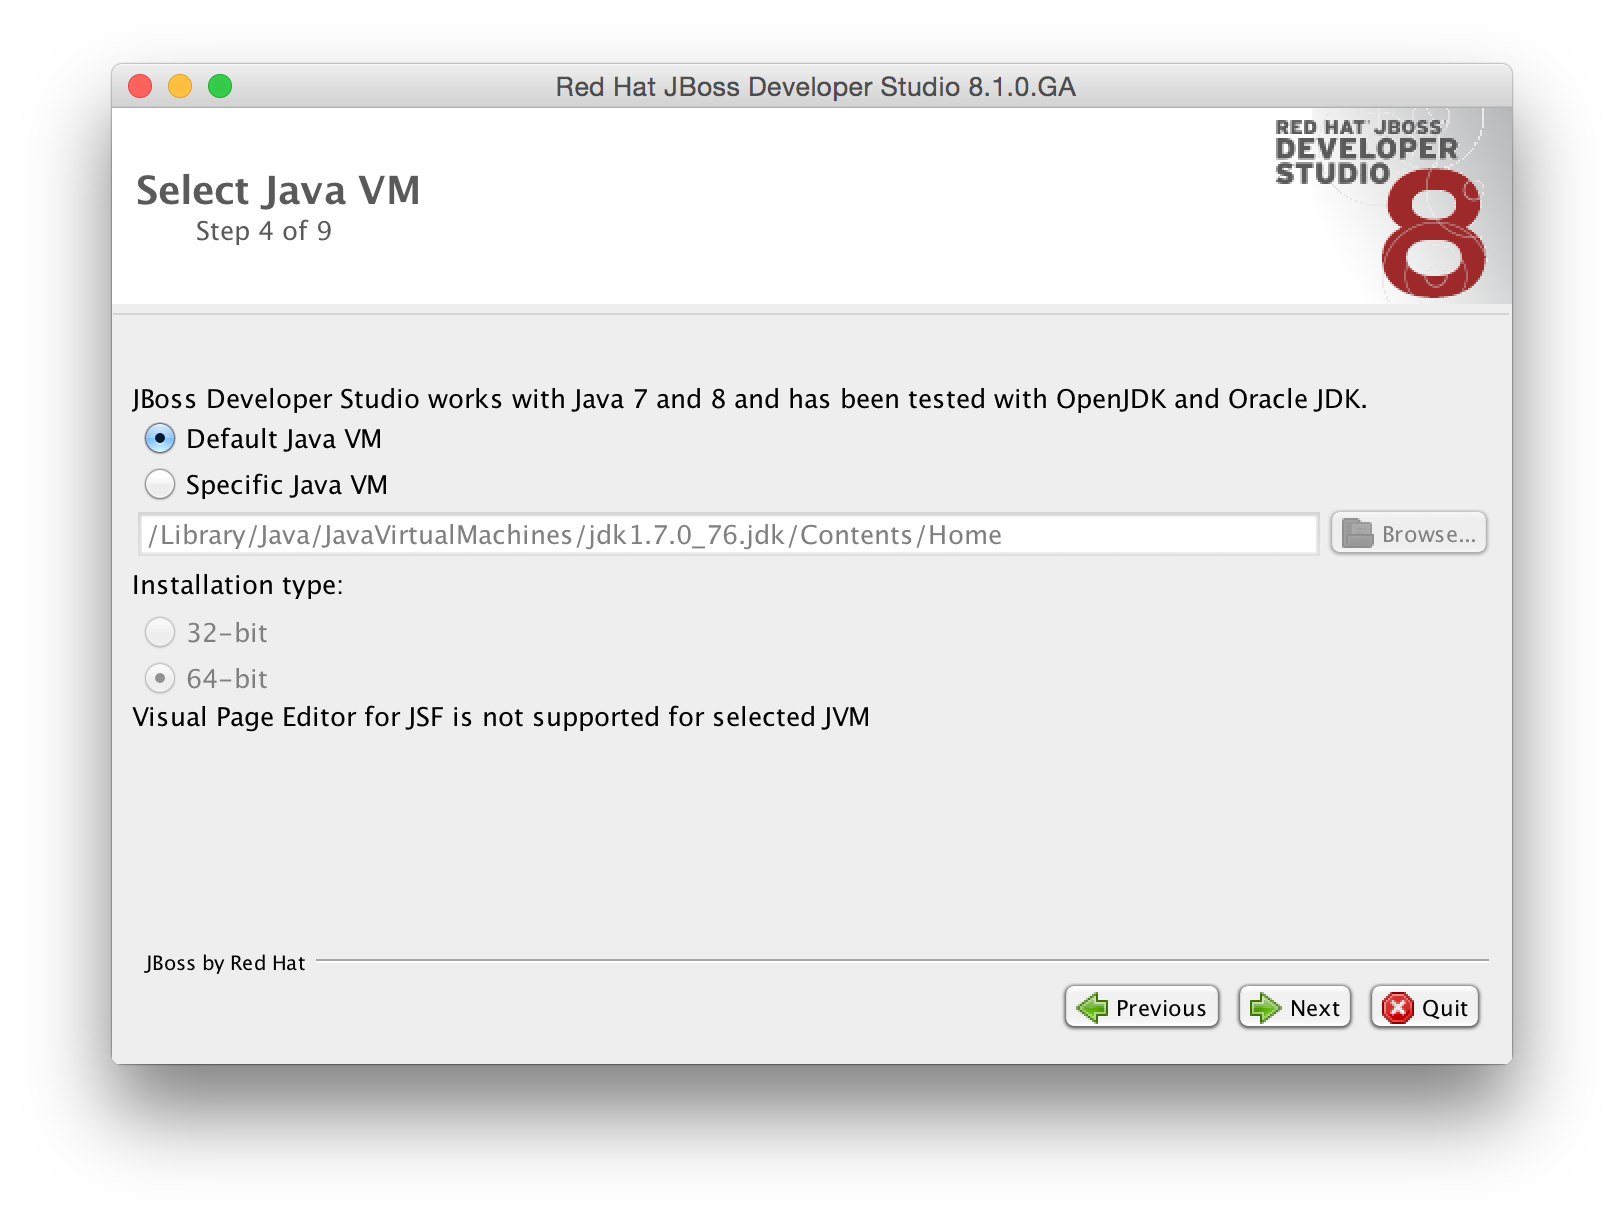
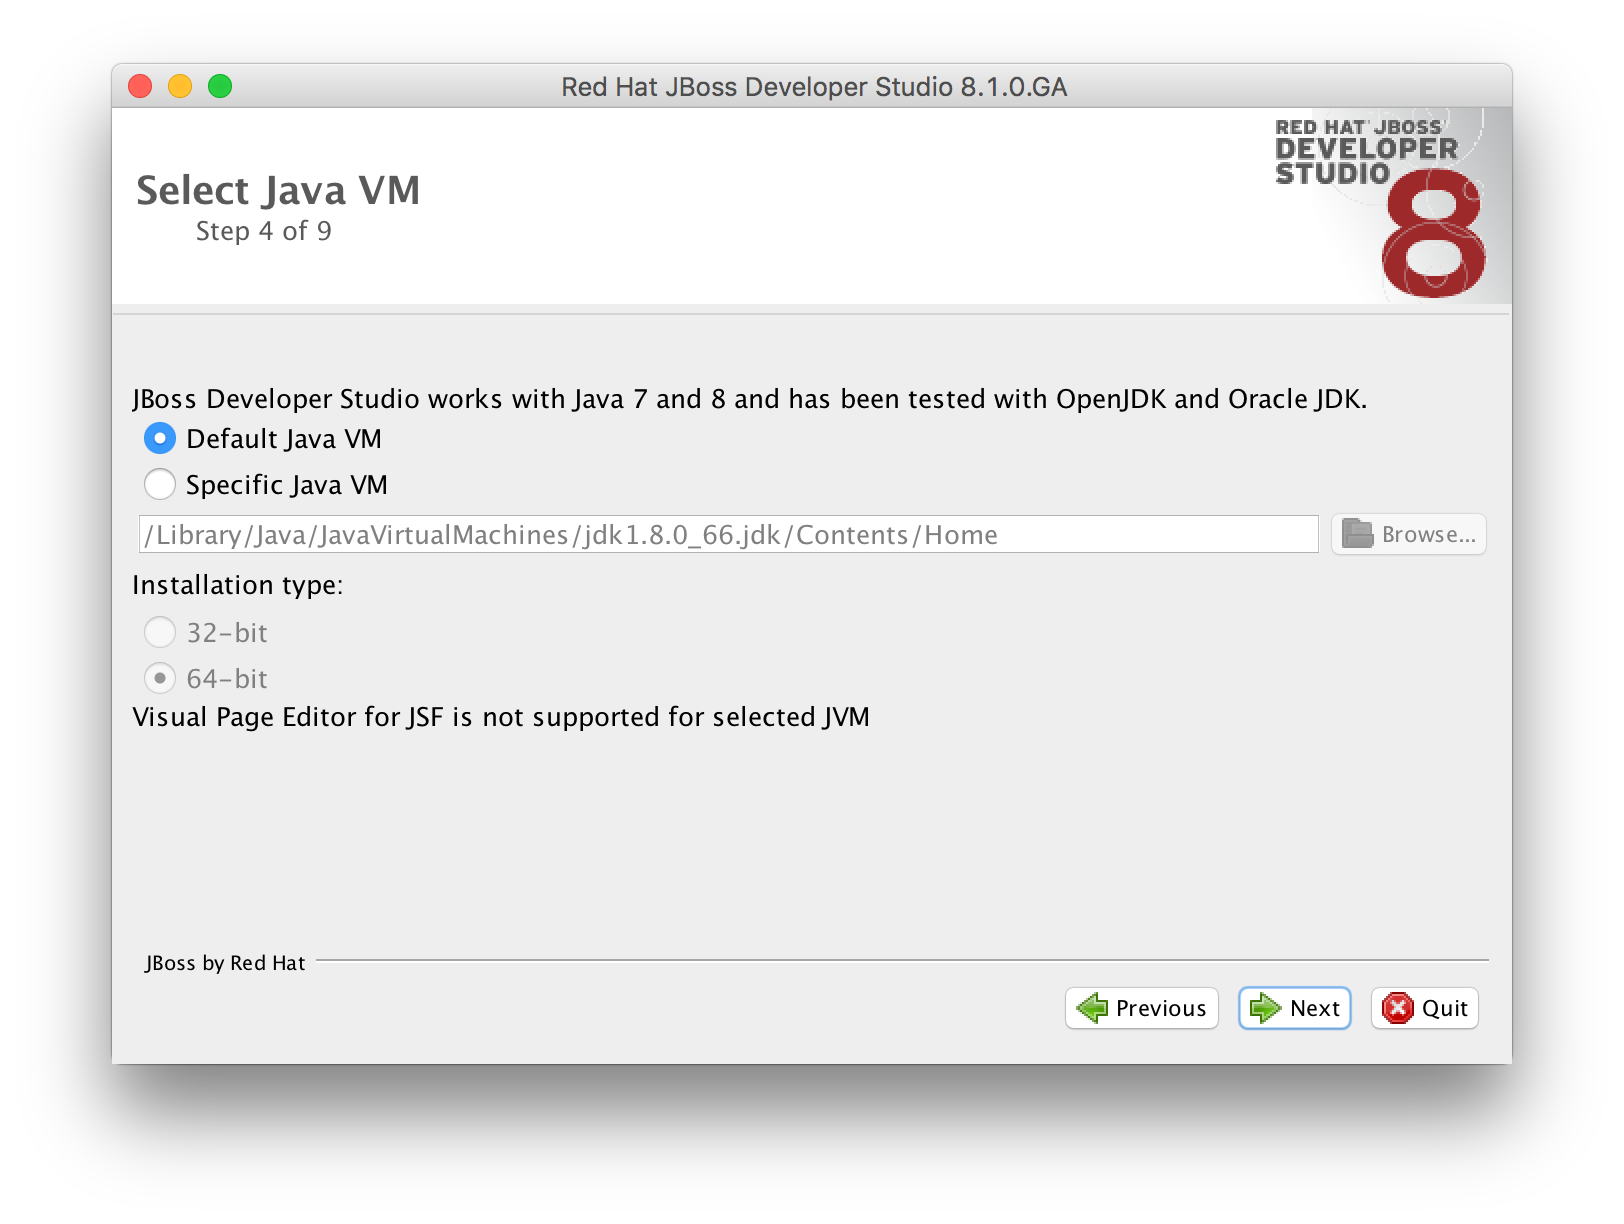
Screenshots updated to 6.2

diff --git a/docs/jboss-dv-workshop.html b/docs/jboss-dv-workshop.html
@@ -522,9 +522,9 @@ table.CodeRay td.code>pre{padding:0}
 <li><a href="#_prerequisites">3.2. Prerequisites</a></li>
 <li><a href="#_setup_demo_environment">3.3. Setup demo environment</a>
 <ul class="sectlevel3">
-<li><a href="#_setup_postgresql">3.3.1. Setup PostgreSQL</a></li>
-<li><a href="#_setup_mariadb">3.3.2. Setup MariaDB</a></li>
-<li><a href="#_setup_mysql">3.3.3. Setup MySQL</a></li>
+<li><a href="#_setup_postgresql_optional">3.3.1. Setup PostgreSQL (Optional)</a></li>
+<li><a href="#_setup_mariadb_optional">3.3.2. Setup MariaDB (Optional)</a></li>
+<li><a href="#_setup_mysql_optional">3.3.3. Setup MySQL (Optional)</a></li>
 </ul>
 </li>
 </ul>
@@ -676,7 +676,7 @@ table.CodeRay td.code>pre{padding:0}
 <p>JBoss Developer Studio 8.1.0.GA</p>
 </li>
 <li>
-<p>JBoss Developer Studio Integration Stack 8.0.1.GA</p>
+<p>JBoss Developer Studio Integration Stack 8.0.3.GA</p>
 </li>
 <li>
 <p>OpenShift Online v2</p>
@@ -859,11 +859,23 @@ table.CodeRay td.code>pre{padding:0}
 </li>
 </ul>
 </div>
+<div class="admonitionblock note">
+<table>
+<tr>
+<td class="icon">
+<div class="title">Note</div>
+</td>
+<td class="content">
+Prerequisites with respect to PostgreSQL server, MariaDB server or MySQL server are optional. We will use the embedded H2 database which is installed in the JBoss DV environment by default as part of JBoss EAP for you convenience.
+</td>
+</tr>
+</table>
+</div>
 </div>
 <div class="sect2">
 <h3 id="_setup_demo_environment">3.3. Setup demo environment</h3>
 <div class="paragraph">
-<p>In order to use the labs we need to prepare one database. We provided some database SQL scripts for PostgreSQL, MariaDB and MySQL to load initial data into the database. In the next paragraph we will describe how to install the database and how to load the demo data into the database.</p>
+<p>In order to use the labs we need to prepare one database. Out of the box we provide H2 embedded databases for your convinience. We provide some database SQL scripts as well for PostgreSQL, MariaDB and MySQL to load initial data into the database of your choice. In the next paragraph we will describe how to install the database and how to load the demo data into the database.</p>
 </div>
 <div class="admonitionblock tip">
 <table>
@@ -872,13 +884,13 @@ table.CodeRay td.code>pre{padding:0}
 <div class="title">Tip</div>
 </td>
 <td class="content">
-Use the database you prefer, it&#8217;s not required to have them all installed.
+Use the database you prefer, it&#8217;s not required to install one of the databases. By default we will use the H2 embedded database.
 </td>
 </tr>
 </table>
 </div>
 <div class="sect3">
-<h4 id="_setup_postgresql">3.3.1. Setup PostgreSQL</h4>
+<h4 id="_setup_postgresql_optional">3.3.1. Setup PostgreSQL (Optional)</h4>
 <div class="paragraph">
 <p>Installation</p>
 </div>
@@ -945,7 +957,7 @@ postgres=# \q</pre>
 </div>
 </div>
 <div class="sect3">
-<h4 id="_setup_mariadb">3.3.2. Setup MariaDB</h4>
+<h4 id="_setup_mariadb_optional">3.3.2. Setup MariaDB (Optional)</h4>
 <div class="paragraph">
 <p>Installation</p>
 </div>
@@ -1013,7 +1025,7 @@ Bye</pre>
 </div>
 </div>
 <div class="sect3">
-<h4 id="_setup_mysql">3.3.3. Setup MySQL</h4>
+<h4 id="_setup_mysql_optional">3.3.3. Setup MySQL (Optional)</h4>
 <div class="paragraph">
 <p>Installation</p>
 </div>
@@ -1162,6 +1174,18 @@ You are disconnected at the moment. Type 'connect' to connect to the server or '
 [disconnected /]</code></pre>
 </div>
 </div>
+<div class="admonitionblock note">
+<table>
+<tr>
+<td class="icon">
+<div class="title">Note</div>
+</td>
+<td class="content">
+Skip apply patch 3 step when you have downloaded the software from <a href="http://jboss.org">jboss.org</a>.
+</td>
+</tr>
+</table>
+</div>
 <div class="paragraph">
 <p>Apply patch 3 to previously installed JBoss EAP 6.4.0 environment</p>
 </div>
@@ -1181,7 +1205,7 @@ Run the installer using java at the command prompt:</p>
 </div>
 <div class="listingblock">
 <div class="content">
-<pre class="CodeRay highlight"><code data-lang="bash">$ java -jar jboss-dv-installer-{version}.jar</code></pre>
+<pre class="CodeRay highlight"><code data-lang="bash">$ java -jar jboss-dv-installer-6.2.0.redhat-2.jar</code></pre>
 </div>
 </div>
 <div class="paragraph">
@@ -1511,7 +1535,7 @@ The following screen should appear.</p>
 <div class="paragraph">
 <p>If you don&#8217;t already have Red Hat JBoss Developer Studio 8.1.0, download it from <a href="https://www.jboss.org/products/jbds.html">https://www.jboss.org/products/jbds.html</a> by clicking the green download button.
 You can use either the installer which includes JBoss EAP (jboss-devstudio-8.1.0.GA-installer-eap.jar) or the stand-alone installer (jboss-devstudio-8.1.0.GA-installer-standalone.jar).
-The instructions below is using the stand-alone installer.</p>
+The instructions below is using the installer with EAP.</p>
 </div>
 <div class="imageblock">
 <div class="content">
@@ -1524,7 +1548,7 @@ The current available version is 8.1.0.GA, and to run the installer at the comma
 </div>
 <div class="listingblock">
 <div class="content">
-<pre class="CodeRay highlight"><code data-lang="bash">$ java -jar jboss-devstudio-8.1.0.GA-installer-standalone.jar</code></pre>
+<pre class="CodeRay highlight"><code data-lang="bash">$ java -jar jboss-devstudio-8.1.0.GA-installer-eap.jar</code></pre>
 </div>
 </div>
 <div class="paragraph">
@@ -1576,7 +1600,7 @@ The current available version is 8.1.0.GA, and to run the installer at the comma
 </div>
 </div>
 <div class="paragraph">
-<p>In the Select Platforms and Servers step one can add server to make use of automatic runtime detection for finding already installed application servers. Skip this for now since we will add servers later. Click <b class="button">Next</b> to proceed.</p>
+<p>In the Select Platforms and Servers step one can install Red Hat JBoss Enterprise Application Server which is included and add server to make use of automatic runtime detection for finding already installed application servers. Select No and skip the option for adding locations for now since we will add servers later. Click <b class="button">Next</b> to proceed.</p>
 </div>
 <div class="imageblock">
 <div class="content">
@@ -1710,13 +1734,20 @@ Please upgrade to the latest patch version of JBoss Developer Studio 8.1.0 by cl
 </div>
 <div class="paragraph">
 <p>With the New Server wizard enabled, be sure you entries look like those above. Select JBoss Enterprise
-Middleware &#8594; JBoss Enterprise Application Platform 6.1+ as the server type. You can keep the defaults that are selected or enter the values appropriate for your workstation. In this case, “localhost” is entered for Server’s host name and “JBoss EAP 6.1+ Runtime Server” is entered for the Server name. Change the Server name into a meaningful name. Click the <b class="button">Next</b> button.
-Next, the JBoss Runtime will need to be defined. Essentially, this is selecting the “home” directory for the JBoss Data Virtualization instance that was installed as part of Lab 1. The values to select are illustrated below.
-Select the “home” directory for the JBoss Data Virtualization instance. This will be &lt;path to installed instance&gt;/jboss-eap-6.3. Once this runtime is selected, the available configurations are available. To keep things simple, select the “default” profile.</p>
+Middleware &#8594; JBoss Enterprise Application Platform 6.1+ as the server type. You can keep the defaults that are selected or enter the values appropriate for your workstation. In this case, “localhost” is entered for Server’s host name and “Create Runtime Server” is entered for the Server name. Change the Server name into a meaningful name like "JBoss Data Virtualization 6.2". Click the <b class="button">Next</b> button.
+Next, the JBoss Runtime will need to be created. Essentially, this is selecting the “home” directory for the JBoss Data Virtualization instance that was installed as part of Lab 1. The values to select are illustrated below.</p>
 </div>
 <div class="imageblock">
 <div class="content">
 <img src="images/2.2-JBDS-setup-runtime.png" alt="2.2 JBDS setup runtime">
+</div>
+</div>
+<div class="paragraph">
+<p>Click <b class="button">Next</b>. Select the “home” directory for the JBoss Data Virtualization instance. This will be &lt;path to installed instance&gt;/jboss-eap-6.4. Once this runtime is selected, the available configurations are available. To keep things simple, select the “default” profile.</p>
+</div>
+<div class="imageblock">
+<div class="content">
+<img src="images/2.2-JBDS-setup-runtime2.png" alt="2.2 JBDS setup runtime2">
 </div>
 </div>
 <div class="paragraph">
